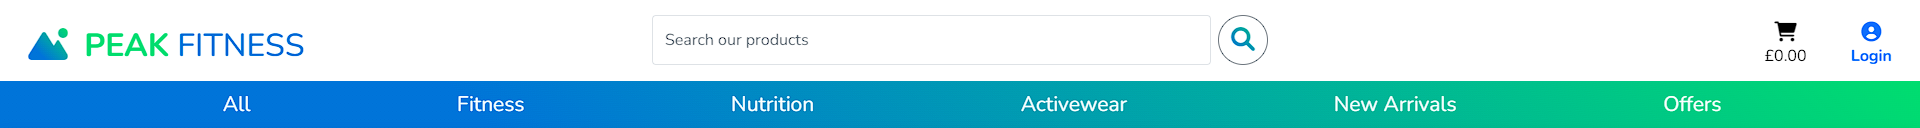
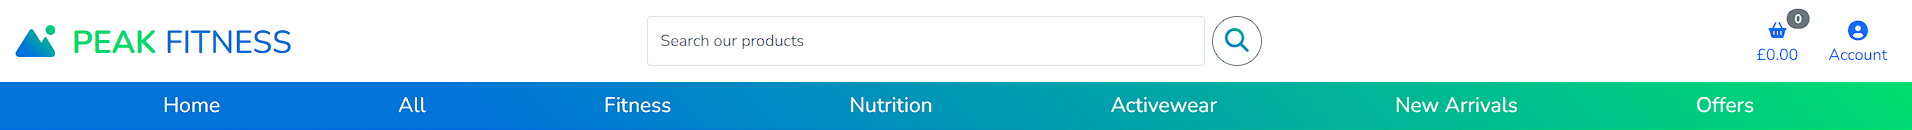
README Update

diff --git a/README.md b/README.md
@@ -2,7 +2,7 @@
 
 ![Peak Fitness logo](/static/images/readme/logo.png)
 
-An E-Commerce WebApp store specialising in personal gym equiptment, fitness accessories, healthy consumables & activewear. It also specialises in a range of subscriptions plans realted to healthy living and fitness by providing personalised diet plans & exercise routines.
+An E-Commerce B2C WebApp store specialising in personal gym equiptment, fitness accessories, healthy consumables & activewear. It also plans to specialise in a range of subscriptions plans realted to healthy living and fitness by providing personalised diet plans & exercise routines.
 Provides a small social platform for other users to share their achievements and active & completed subscriptions 
 
 The backend runs on the Django 3.2 python web-framework with a PostgreSQL database using the Django MVT model (similar to the standard MVC), the front-end web pages are rendered from templates served by the Django backend, these templates were written in a combination of HTML5 & Django templating language which allows for pythonic functions such as loops and variables to be utilised. 
@@ -12,6 +12,9 @@ CSS3, Bootstrap 5, JavaScript were utilised to gain the desired front-end functi
 This WebApp & PostgreSQL database are hosted on Heroku with all static & media files hosted on AWS S3 and handled through Django.
 
 [Click here for the live version](https://peak-fitness.herokuapp.com/)
+
+![Homepage](/static/images/readme/homepage.png)
+
 
 # Current Features
 
@@ -24,6 +27,7 @@ This WebApp & PostgreSQL database are hosted on Heroku with all static & media f
 * Live Basket Total
 * User Menu
 * E-Commerce Nav
+    * Home
     * All 
     * Fitness
     * Nutrition
@@ -41,62 +45,85 @@ This WebApp & PostgreSQL database are hosted on Heroku with all static & media f
 
 ### **E-commerce / Shop**
 
-* Browse Product Page
+* Browse Product Page 
+![Product Page Desktop](/static/images/readme/product_page_desktop.png)
+![Product Page mobile](/static/images/readme/product_page_mobile.png)
 
 * Product Details Page
+![Product Details Desktop](/static/images/readme/product_details_desktop.png)
+![Product Details mobile](/static/images/readme/product_details_mobile.png)
 
-* Basket Page
+* Basket Page/Checkout
+![Product Basket Desktop](/static/images/readme/product_basket_desktop.png)
+![Product Basket mobile](/static/images/readme/product_basket_mobile.png)
 
-* Checkout Page
+* Basket Canvas - on click of basket in desktop.
+![Product Basket Canvas Desktop](/static/images/readme/product_basket_canvas_desktop.png)
+
+* Secure Checkout Page
+![Checkout Desktop](/static/images/readme/checkout_desktop.png)
+![Checkout Mobile](/static/images/readme/checkout_mobile.png)
 
 * Confirmation Page
-
-* E-commerce / Plans
+![Confirmation Desktop](/static/images/readme/confirmation_desktop.png)
+![Confirmation Mobile](/static/images/readme/confirmation_mobile.png)
 
 * User Account
     * Profile Page
+    ![Profile Desktop](/static/images/readme/profile_desktop.png)
+    ![Profile Mobile](/static/images/readme/profile_mobile.png)
     * Orders Page
-    * Plans Page
-    * Settings Page
-    * Help Page
+    ![Order Desktop](/static/images/readme/order_desktop.png)
+    ![Order Mobile](/static/images/readme/order_mobile.png)
 
-* Login / Register - Accounts Authorisation
+* Accounts Authorisation
+    * Login
+    ![Login Desktop](/static/images/readme/login_desktop.png)
+    ![Login Mobile](/static/images/readme/login_mobile.png)
+    * Register
+    ![Register Desktop](/static/images/readme/register_desktop.png)
+    ![Register Mobile](/static/images/readme/register_mobile.png)
+
+* Cookies Accept
+![Cookies Desktop](/static/images/readme/cookies_desktop.png)
+![Cookies Mobile](/static/images/readme/cookies_mobile.png)
 
 ## Admin/Staff Features
 
-### **Dashboard**
 
-### **Dev Admin**
+### **Account Canvas Admin**
+![Admin Account Desktop](/static/images/readme/admin_account_canvas_desktop.png)
+![Admin Account Mobile](/static/images/readme/admin_account_mobile.png)
+
+* Add Product
+![Add Product Desktop](/static/images/readme/add_product_desktop.png)
+![Admin Product Mobile](/static/images/readme/add_product_mobile.png)
+* Edit/Delete Product
+![Edit Product Desktop](/static/images/readme/edit_product_desktop.png)
+![Edit Product Mobile](/static/images/readme/edit_product_mobile.png)
+
 
 ### **Functionality Left to Implement**
+- Expiry Dates for Vouchers
+- Plans App
 
 ## Future Features
-
+- Gift Cards /Credit Vouchers
+- Returns
 ## How To Use
 
 ## Data Model
-
-## Testing 
-
-### General Testing
-
-
-### Javascript Testing
-
-**Jest**
-- N/A
-
-### Django Testing
-**Coverage** - Ran on local sqlite3 database.
-
-### User Testing
-
-**Guest**
-
-**Staff**
+- I confirmed the name entry input works; requires an entry into the field, accepts only characters (Desktop). Start button works and user name is added to the DOM.
 
 ### Browser Testing
 **Lighthouse**
+- Mobile Results
+![Mobile Lighthouse Report](/static/images/readme/mobile_lighthouse_report.png)
+
+- Desktop Results
+![Desktop Lighthouse Report](/static/images/readme/desktop_lighthouse_report.png)
+<!-- ![Lighthouse Results]()
+- I confirmed that ... are all readable and easy to understand. -->
 
 ## Deployment
 
@@ -131,7 +158,7 @@ The live link can be found here - [Peak Fitness](https://peak-fitness.herokuapp.
 
 ### Model Designs
 
-**Initial Models:**
+**Models:**
 
 ### Initial Wireframes & Design Features
 
@@ -152,9 +179,11 @@ The live link can be found here - [Peak Fitness](https://peak-fitness.herokuapp.
 
 - [Bootstrap 5](https://getbootstrap.com/) - CSS Framework
 - [Font Awesome](https://fontawesome.com/) - Icons
+- [Cookie Consent](https://orestbida.com/demo-projects/cookieconsent/) - Cookie Consent
 
 **Media:**
-- The images/videos used in this webapp were sourced from [Pexels](https://www.https://www.pexels.com/) & [Pixabay](https://pixabay.com/)
+- Some images/videos used in this webapp were sourced from [Pexels](https://www.https://www.pexels.com/) & [Pixabay](https://pixabay.com/)
+- Product images/videos used in this webapp were sourced from [Decathalon](https://www.decathlon.co.uk/)
 
 **Fonts**
 - Some of the fonts used in this webapp were sourced from [Google Fonts](https://fonts.google.com/)
